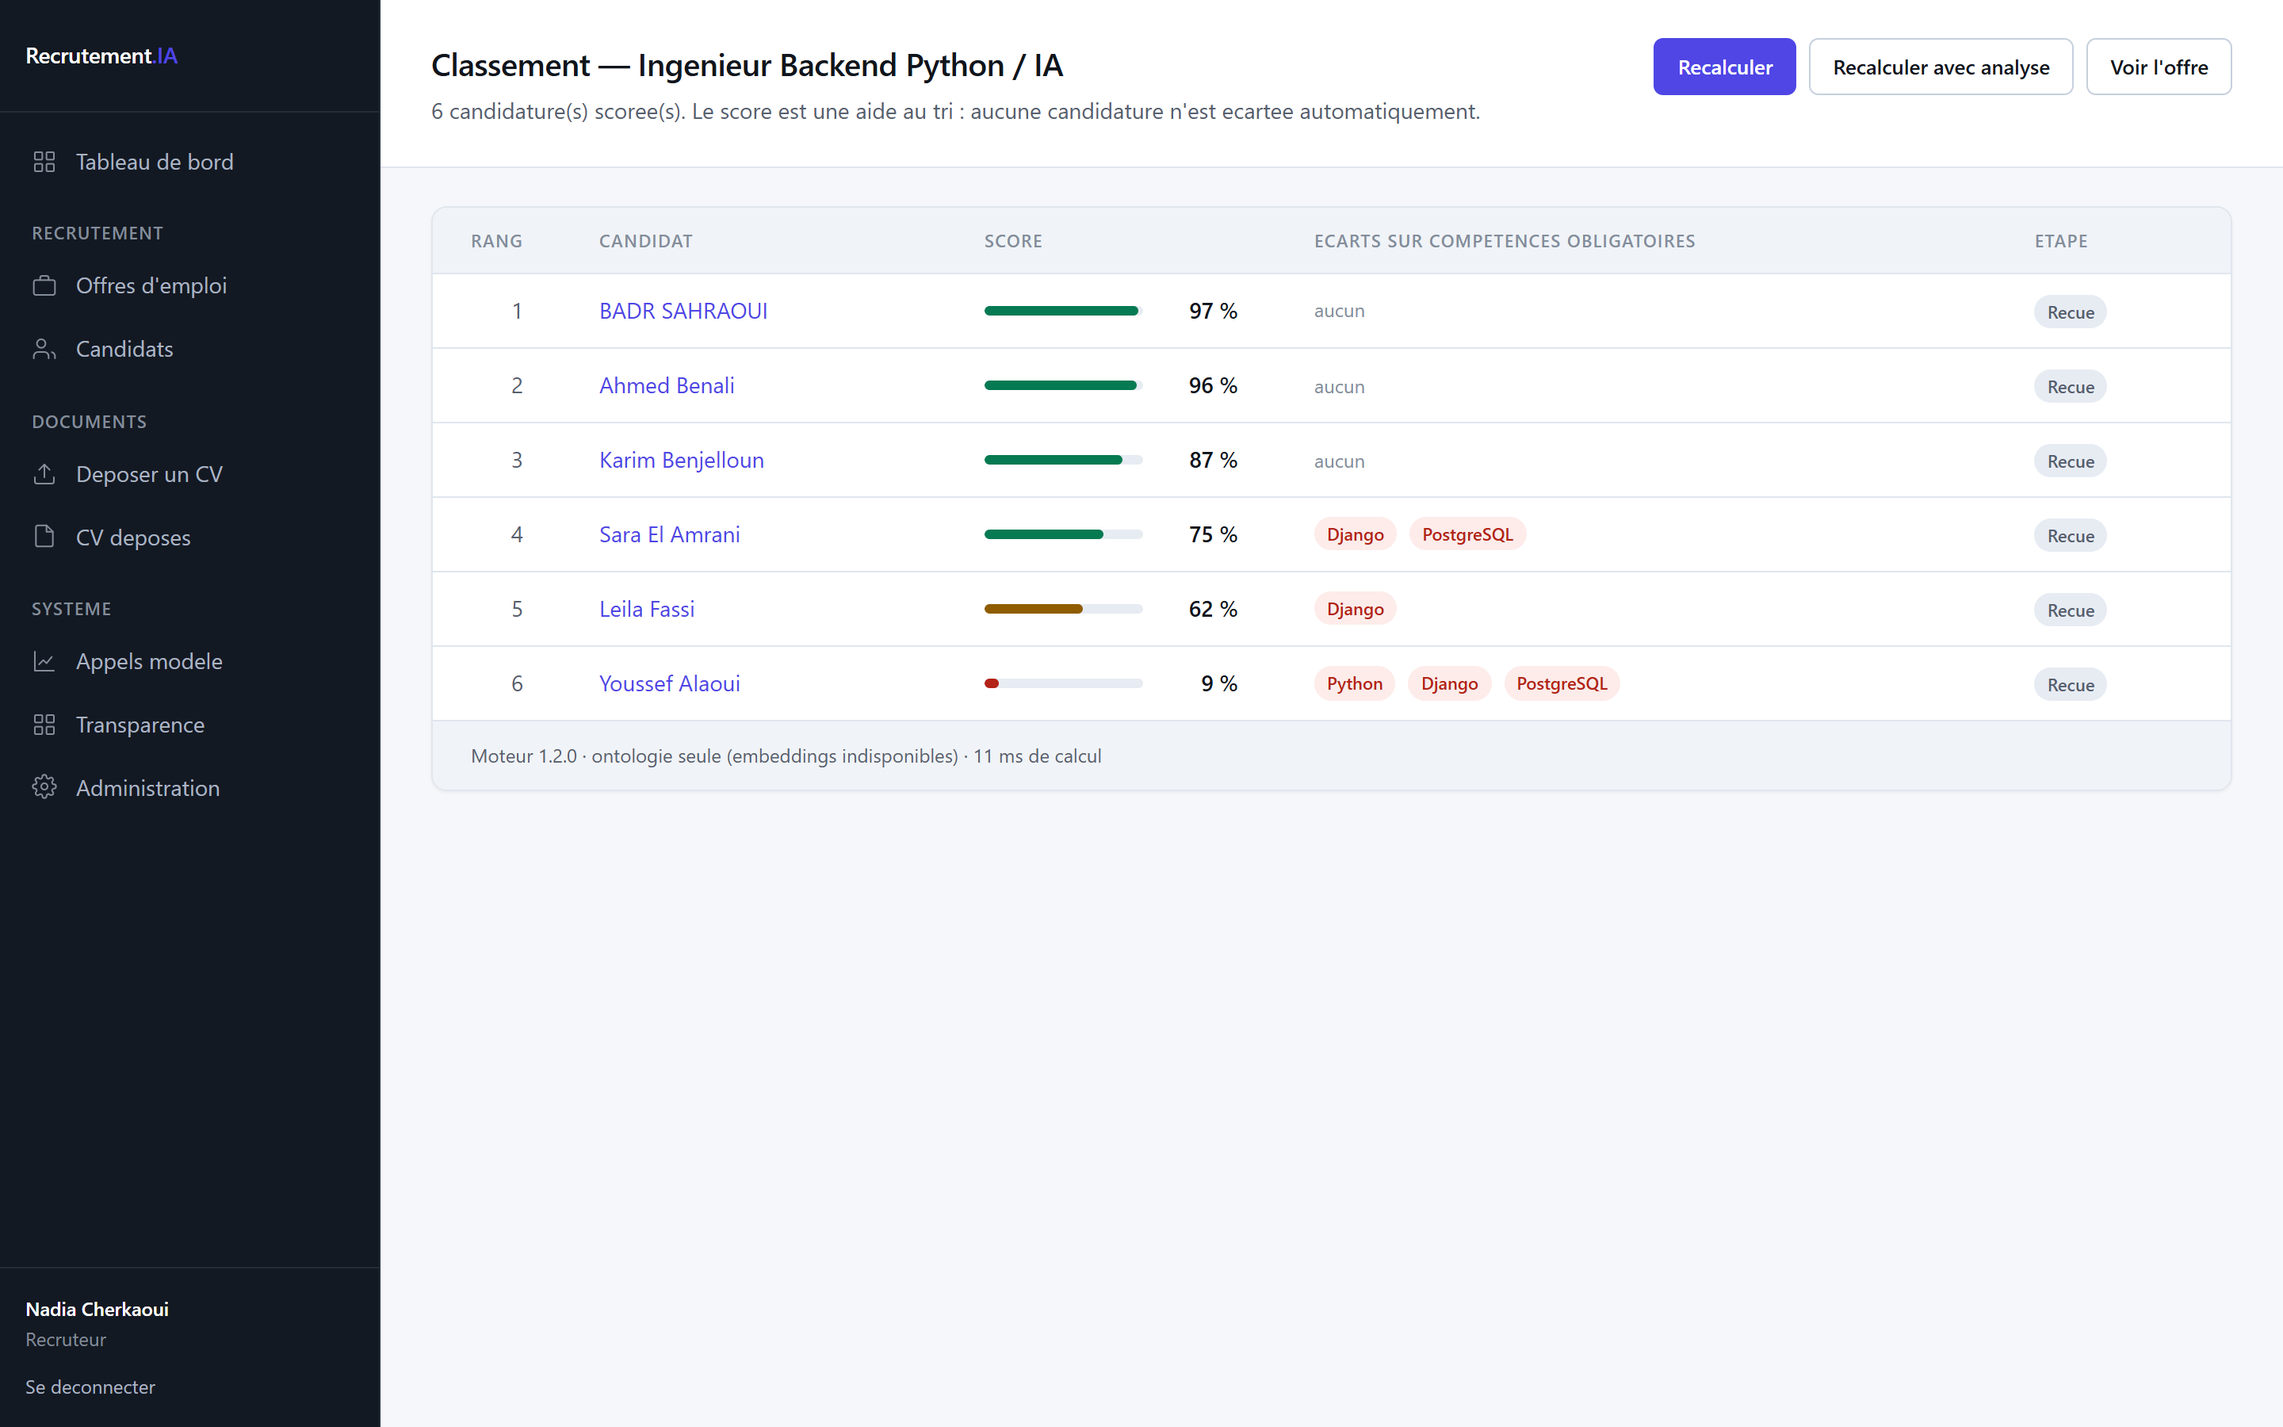
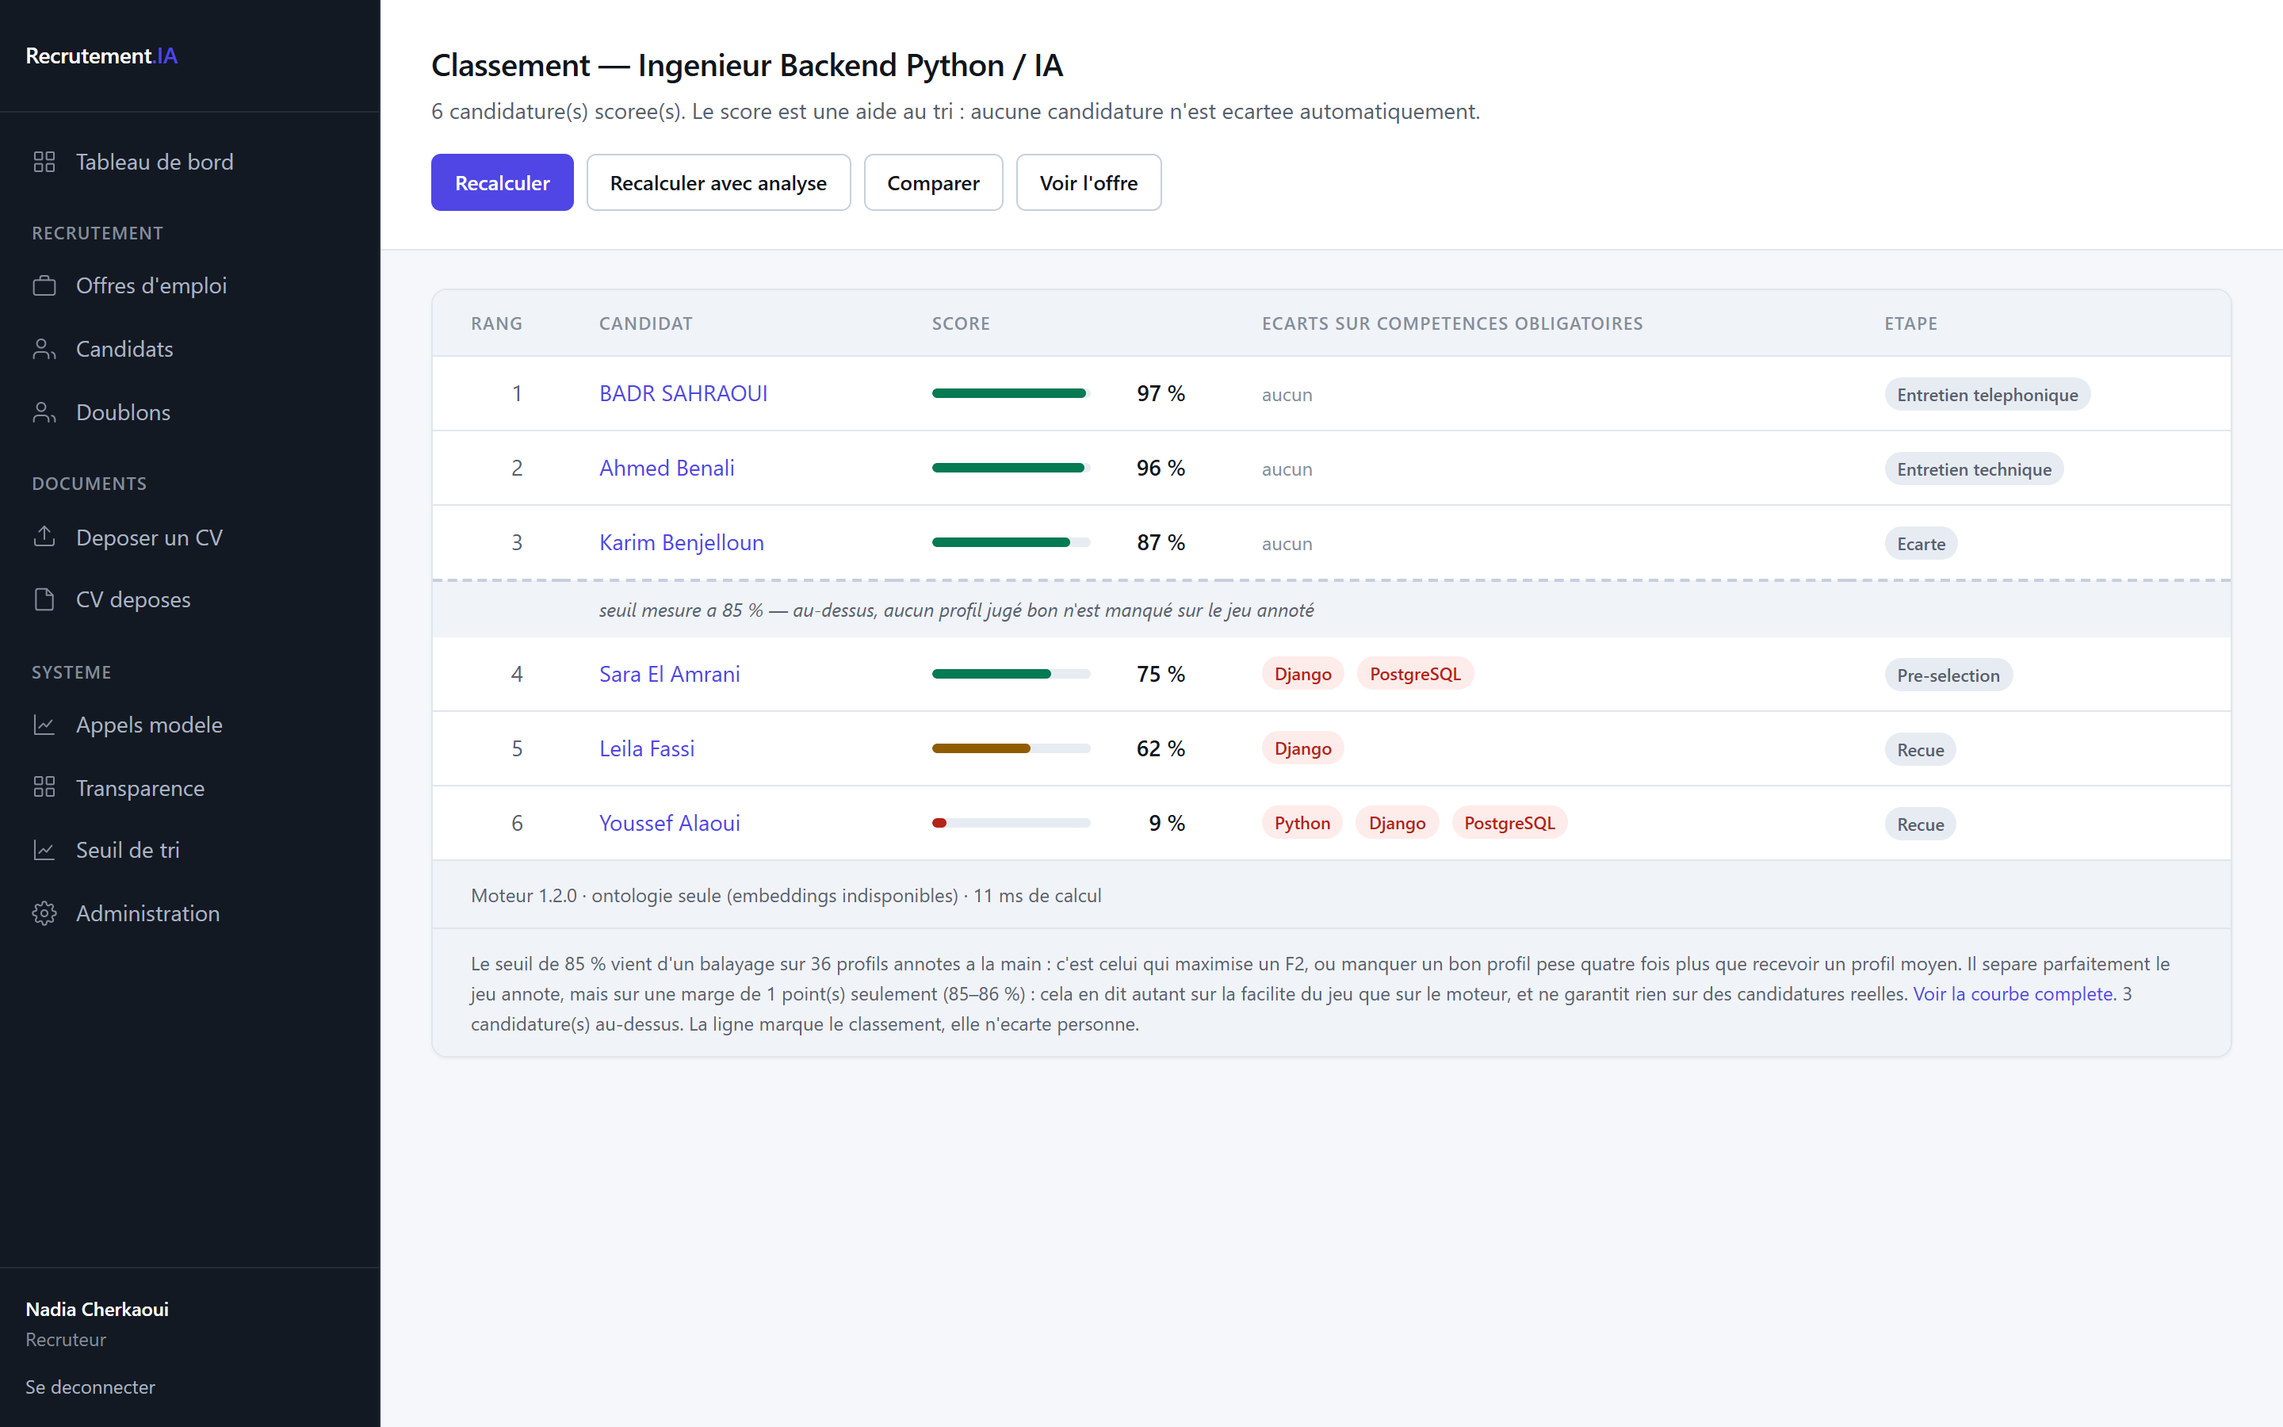
Ajouter les quatre ecrans de la derniere serie a Recrutement.IA
Seuil de tri, ecarts contrefactuels, rapprochement des doublons et reponse
d'API. Toutes prises sur l'application en fonctionnement.

La capture d'API montre volontairement une reponse en screening a l'aveugle :
nom remplace par un identifiant, adresse et telephone vides. C'est le point
qui compte, une API qui renverrait ce que l'interface masque rendrait
l'attenuation du biais contournable en une requete.

La capture du classement remplace l'ancienne : elle porte maintenant la ligne
de coupe mesuree.

Deux defis et un impact de plus dans les encadres, dont le seuil parfait sur
une marge d'un point -- qu'il vaut mieux presenter comme un avertissement que
comme un resultat.

Metriques remesurees : 412 tests, 82 % de couverture. DRF ajoute a la pile,
maintenant qu'il sert a quelque chose.

diff --git a/recruitmentProject.js b/recruitmentProject.js
@@ -1,7 +1,7 @@
 // ─── DONNÉES DU PROJET : Recrutement.IA (bilingue FR / EN) ──────────────────
 // Passé à <ProjectCard data={...} /> dans App.jsx. Même schéma que l'objet
 // `project` par défaut de ProjectCard.jsx — on ne touche pas au composant.
-// Chiffres MESURÉS le 2026-07-29 : suite de tests exécutée (313 tests, 80 % de
+// Chiffres MESURÉS le 2026-07-29 : suite de tests exécutée (412 tests, 82 % de
 // couverture), harnais d'évaluation du classement (nDCG@5 0,997 sur 7 cas
 // annotés) et audit de biais par contrefactuels (ratio d'impact 0,809 → 1,000).
 // Captures dans public/screenshots/ (préfixe recruitment-).
@@ -14,9 +14,9 @@ export const recruitmentProject = {
       "Aider un recruteur à trier des candidatures sans jamais lui demander de croire une note qu'il ne peut pas vérifier.",
     why:
       "Trier des CV avec un modèle de langage est facile ; obtenir un résultat qu'on puisse défendre l'est beaucoup moins — la note change d'une exécution à l'autre, et rien ne dit d'où elle vient. Ici le score est calculé par un moteur déterministe à partir de poids explicites, le modèle se contente de le commenter, et aucune donnée extraite d'un CV n'est retenue sans une citation retrouvée mot pour mot dans le document. La qualité du classement et l'effet des attributs identitaires sont mesurés sur des jeux annotés puis verrouillés en intégration continue : le tri de candidatures étant un système d'IA à haut risque au sens de l'AI Act, la supervision humaine n'est pas une intention mais un comportement — écarter un candidat demande un motif écrit, un compte non habilité se voit refuser l'action et le refus est journalisé, et chaque dossier porte une échéance de conservation qu'une purge quotidienne fait respecter.",
-    stack: ["Python 3.11", "Django 5", "Celery", "PyMuPDF", "python-docx", "pytest", "llama.cpp", "Qwen3.6-35B · Qwen3-VL", "SVG sans dépendance", "GitHub Actions"],
+    stack: ["Python 3.11", "Django 5", "DRF", "Celery", "PyMuPDF", "python-docx", "pytest", "llama.cpp", "Qwen3.6-35B · Qwen3-VL", "SVG sans dépendance", "GitHub Actions"],
     metrics: [
-      { value: "313", label: "tests automatisés", detail: "80 % de couverture, exécutés en intégration continue" },
+      { value: "412", label: "tests automatisés", detail: "82 % de couverture, exécutés en intégration continue" },
       { value: "0,997", label: "nDCG@5 du classement", detail: "sur 7 cas annotés à la main, non-régression verrouillée" },
       { value: "1,000", label: "ratio d'impact après atténuation", detail: "0,809 avant — règle dite des quatre cinquièmes" },
     ],
@@ -69,6 +69,8 @@ Classement          Qwen3.6-35B
         { label: "Un score qu'on puisse défendre", detail: "Ontologie à relations dirigées — Django implique Python, jamais l'inverse — poids renormalisés sur les seuls critères exprimés par l'offre." },
         { label: "Un assistant incapable d'inventer un candidat", detail: "Le modèle traduit la question en critères, le code filtre la base, et le modèle ne rédige qu'à partir des lignes trouvées. La même question renvoie toujours la même liste." },
         { label: "Une purge qui aurait épargné les dossiers existants", detail: "L'échéance n'était posée qu'à l'écriture ; les dossiers déjà en base gardaient un champ vide, et un filtre sur une date ne sélectionne jamais un NULL. Ils auraient été conservés indéfiniment par la fonctionnalité censée l'empêcher — une migration leur donne une échéance calculée depuis leur date de création réelle." },
+        { label: "Un tableau dont les lignes ne s'additionnaient pas", detail: "Le chemin vers le seuil affichait l'apport de chaque levier pris seul : 74 % puis « +21 points » donnait 83 %. Le facteur de recevabilité étant multiplicatif, deux écarts comblés ensemble rapportent moins que la somme de leurs effets. Le chemin porte désormais l'apport marginal, l'apport isolé restant dans une colonne à part." },
+        { label: "Un seuil parfait qu'il ne faut pas croire", detail: "Le balayage donne 100 % de précision et de rappel à 85 % — mais sur une marge d'un seul point. Une séparation parfaite sur une marge aussi étroite en dit autant sur la facilité du jeu annoté que sur le moteur. La marge est donc publiée à côté du seuil, et le seuil retenu est le milieu de l'intervalle optimal, pas une de ses bornes." },
       ],
     },
 
@@ -82,13 +84,20 @@ Classement          Qwen3.6-35B
         { label: "Biais de localisation neutralisé", detail: "Ratio d'impact ramené de 0,809 à 1,000 par le screening à l'aveugle, mesuré avant et après." },
         { label: "Recherche en français, résultat vérifiable", detail: "« Qui connaît Django mais pas React ? » répond en quatre secondes, avec les critères appliqués affichés et un critère discriminatoire écarté s'il y en avait un." },
         { label: "Aucune candidature écartée sans un motif écrit", detail: "Le moteur classe, il ne rejette personne : sortir un candidat du processus demande un motif, est imputé à son auteur, et reste refusé aux comptes non habilités — refus compris, le journal garde tout." },
+        { label: "Un score devenu actionnable", detail: "« 61 % » ne dit rien. Le contrefactuel dit ce qui manque et de combien, en rejouant le moteur sur une copie du profil : chaque chiffre affiché est mesuré, jamais estimé. La localisation n'est jamais proposée comme levier." },
+        { label: "Un seuil de coupe mesuré, pas choisi rond", detail: "Balayage des 101 seuils sur le jeu annoté, avec la marge du seuil retenu affichée à côté. La colonne qui compte est celle des bons profils écartés à tort — un chiffre qu'aucun processus réel ne peut observer." },
+        { label: "Une personne comptée une fois", detail: "Un candidat qui repostule six mois plus tard créait deux dossiers, deux scores, et pouvait être écarté sur l'un sans qu'on sache que l'autre existait." },
       ],
       note:
         "Chiffres relevés sur les jeux de test du dépôt, reproductibles par les commandes du README. Le gain de temps de présélection en conditions réelles n'a pas été mesuré : il n'est donc pas revendiqué.",
     },
 
     screenshots: [
-      { file: "recruitment-ranking.png", caption: "Classement d'une offre : score, écarts de compétences, étape" },
+      { file: "recruitment-ranking.png", caption: "Classement d'une offre, avec le seuil de coupe mesuré — la ligne marque, elle n'écarte pas" },
+      { file: "recruitment-threshold.png", caption: "Où couper : chaque seuil, ce qu'il retient et surtout ce qu'il écarte à tort" },
+      { file: "recruitment-counterfactual.png", caption: "Ce qui manque pour atteindre le seuil, mesuré en rejouant le moteur" },
+      { file: "recruitment-duplicates.png", caption: "Deux dossiers pour la même personne — proposés au rapprochement, jamais fusionnés d'office" },
+      { file: "recruitment-api.png", caption: "L'API applique le screening à l'aveugle : le nom est masqué, les identifiants directs retirés" },
       { file: "recruitment-application.png", caption: "Score détaillé par critère, poids appliqués et méthode de rapprochement" },
       { file: "recruitment-comparison.png", caption: "Comparaison : ce qui différencie vraiment quatre candidats, compétence par compétence" },
       { file: "recruitment-assistant.png", caption: "Assistant : la question devient des critères, le code filtre, le modèle rédige" },
@@ -112,9 +121,9 @@ Classement          Qwen3.6-35B
       "Helping a recruiter shortlist applications without ever asking them to trust a score they cannot check.",
     why:
       "Ranking CVs with a language model is easy; getting a result you can defend is much harder — the score shifts between runs, and nothing says where it came from. Here the score is computed by a deterministic engine from explicit weights, the model only comments on it, and no data extracted from a CV is kept without a quote found verbatim in the document. Ranking quality and the effect of identity attributes are measured on annotated datasets and locked in continuous integration: since CV screening is a high-risk AI system under the EU AI Act, human oversight is a behaviour rather than an intention — rejecting a candidate requires a written reason, an account without the right is refused the action and the refusal is logged, and every file carries a retention deadline that a daily purge enforces.",
-    stack: ["Python 3.11", "Django 5", "Celery", "PyMuPDF", "python-docx", "pytest", "llama.cpp", "Qwen3.6-35B · Qwen3-VL", "Dependency-free SVG", "GitHub Actions"],
+    stack: ["Python 3.11", "Django 5", "DRF", "Celery", "PyMuPDF", "python-docx", "pytest", "llama.cpp", "Qwen3.6-35B · Qwen3-VL", "Dependency-free SVG", "GitHub Actions"],
     metrics: [
-      { value: "313", label: "automated tests", detail: "80% coverage, run in continuous integration" },
+      { value: "412", label: "automated tests", detail: "82% coverage, run in continuous integration" },
       { value: "0.997", label: "ranking nDCG@5", detail: "across 7 hand-annotated cases, regression-locked" },
       { value: "1.000", label: "impact ratio after mitigation", detail: "0.809 before — the four-fifths rule" },
     ],
@@ -167,6 +176,8 @@ Shortlist           Qwen3.6-35B
         { label: "A score you can defend", detail: "Directed ontology — Django implies Python, never the reverse — and weights renormalised over the criteria the role actually states." },
         { label: "An assistant that cannot invent a candidate", detail: "The model turns the question into criteria, code filters the database, and the model only writes from the rows it was handed. The same question always returns the same list." },
         { label: "A purge that would have spared the existing files", detail: "The deadline was only set on write; files already in the database kept an empty field, and a date filter never selects a NULL. They would have been kept forever by the very feature meant to prevent it — a migration gives them a deadline computed from their real creation date." },
+        { label: "A table whose rows did not add up", detail: "The path to the threshold showed each lever's gain taken alone: 74 % then « +21 points » landed on 83 %. The admissibility factor being multiplicative, two gaps closed together yield less than the sum of their separate effects. The path now carries the marginal gain, with the standalone figure kept in its own column." },
+        { label: "A perfect threshold not to be believed", detail: "The sweep gives 100 % precision and recall at 85 % — but over a margin of a single point. A perfect split on so narrow a margin says as much about how easy the annotated set is as about the engine. The margin is therefore published next to the threshold, and the chosen value is the middle of the optimal interval, not one of its edges." },
       ],
     },
 
@@ -180,13 +191,20 @@ Shortlist           Qwen3.6-35B
         { label: "Location bias neutralised", detail: "Impact ratio brought from 0.809 to 1.000 by blind screening, measured before and after." },
         { label: "Plain-language search, verifiable result", detail: "« Who knows Django but not React ? » answers in four seconds, showing the criteria that were applied — and any discriminatory one that was dropped." },
         { label: "No application dropped without a written reason", detail: "The engine ranks, it rejects no one: taking a candidate out of the process requires a reason, is attributed to its author, and stays barred to accounts without the right — refusals included, the log keeps everything." },
+        { label: "A score you can act on", detail: "« 61 % » says nothing. The counterfactual says what is missing and by how much, replaying the engine on a copy of the profile: every figure shown is measured, never estimated. Location is never offered as a lever." },
+        { label: "A cut-off that is measured, not rounded", detail: "A sweep of all 101 thresholds over the annotated set, with the margin of the chosen one shown beside it. The column that matters is wrongly dropped good profiles — a number no real process can ever observe." },
+        { label: "One person counted once", detail: "A candidate re-applying six months later created two records, two scores, and could be dropped on one without anyone knowing the other existed." },
       ],
       note:
         "Figures taken from the repository's test datasets, reproducible with the README commands. Real-world shortlisting time savings were not measured, so they are not claimed.",
     },
 
     screenshots: [
-      { file: "recruitment-ranking.png", caption: "Shortlist for a role: score, missing skills, pipeline stage" },
+      { file: "recruitment-ranking.png", caption: "Shortlist for a role, with the measured cut-off — the line marks, it does not reject" },
+      { file: "recruitment-threshold.png", caption: "Where to cut: every threshold, what it keeps and above all what it wrongly drops" },
+      { file: "recruitment-counterfactual.png", caption: "What is missing to reach the threshold, measured by replaying the engine" },
+      { file: "recruitment-duplicates.png", caption: "Two records for one person — proposed for merging, never merged automatically" },
+      { file: "recruitment-api.png", caption: "The API enforces blind screening: the name is masked, direct identifiers removed" },
       { file: "recruitment-application.png", caption: "Score broken down per criterion, applied weights and matching method" },
       { file: "recruitment-comparison.png", caption: "Comparison: what actually separates four candidates, skill by skill" },
       { file: "recruitment-assistant.png", caption: "Assistant: the question becomes criteria, code filters, the model writes" },
